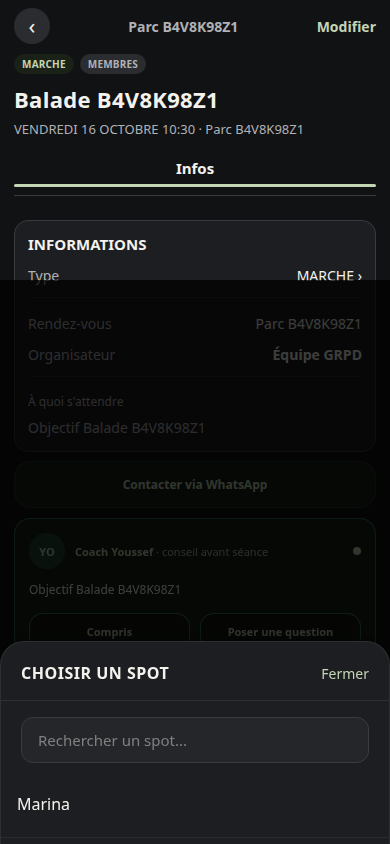
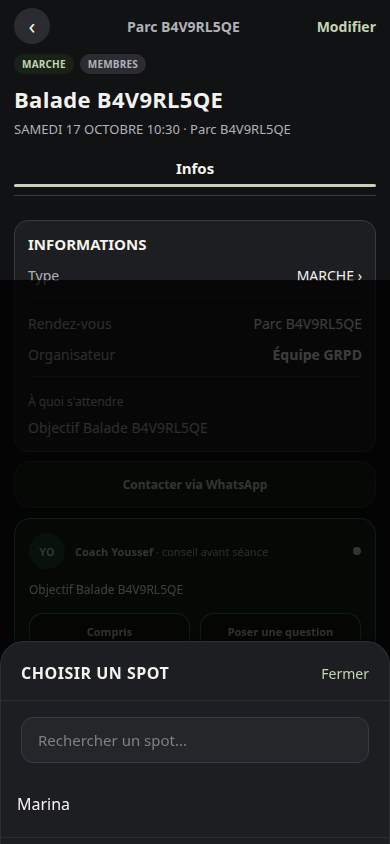
Batch4 evidence: Codex correction — real admin move of B at 3dff8ed
Re-ran Batch4 checks: B moved D→B (source −1 / dest +1); separate
same-group idempotency; B TOI after login; host/club B unchanged;
no outing autojoin. Nested SKIP this correction. STOP for Codex.

diff --git a/docs/audit/batch4-toi-roster/EVIDENCE.md b/docs/audit/batch4-toi-roster/EVIDENCE.md
@@ -1,52 +1,62 @@
-# Batch 4 evidence — ISSUE-011 TOI / roster
+# Batch 4 evidence — ISSUE-011 TOI / roster (Codex correction)
 
-- **tested_sha:** `de5402a3757063a18b0895fcc41686e1f89d8ad0`
+- **tested_sha:** `3dff8ed2f2af5075fd3fd71660a2dd307d9c2851`
 - **branch:** `cursor/green-home-ux-join-3184`
-- **environment:** `demo` · hosted_claim: false
-- **summary:** {"passed":32,"failed":0,"blocked":0,"total":32}
-- **generated_at:** 2026-10-14T20:37:01.696Z
+- **environment:** `demo` · hosted_claim: False
+- **summary:** {"passed": 37, "failed": 0, "blocked": 3, "total": 40}
+- **generated_at:** 2026-10-15T16:43:05.254Z
+- **correction:** e383d2a review — require real admin move of B to different group
+- **nested:** SKIPPED this correction (relevant Batch4 checks only); prior nested PASS retained under regressions/ from de5402a run
 
 ## Checks
-- PASS `host_login` — user_1792009620683_cz27f9ub
-- PASS `club_a_created` — club_1792009623136_ty9h9hqs
+- PASS `host_login` — user_1792082400155_kohostak
+- PASS `club_a_created` — club_1792082402612_7kf2asec
 - PASS `club_a_home_screen` — Clubs
 Membre confirmé · Fondé 2026
 EOB
-English Outside B4V8K98Z1
+English Outside B4V9RL5QE
 Casablanca · Club sur invitation · 1 membre
 TU ES MEMBRE
-Pratiquer l'anglais en marchant — niveaux mixtes B4V8K98Z1.
+Pratiquer l'anglais en marchant — niveaux mixtes B4V9RL5QE.
 Les sorties du club
 Chaque sortie a sa
-- PASS `same_user_exactly_one_toi` — [{"gid":"A","visible":true,"hasToi":true,"countText":"1 membre","count":1}]
-- PASS `toi_group_count_gte_1` — {"gid":"A","visible":true,"hasToi":true,"countText":"1 membre","count":1}
-- PASS `exact_roster_sum_equals_member_total_solo` — {"sumCounts":1,"pace":[{"gid":"A","visible":true,"hasToi":true,"countText":"1 membre","count":1},{"gid":"B","visible":true,"hasToi":false,"countText":"0 membres","count":0},{"gid":"C","visible":true,"hasToi":false,"countText":"0 membres","count":0},{"gid":"D","visible":true,"hasToi":false,"countText":"0 membres","count":0}]}
-- PASS `empty_groups_show_zero` — ["B","C","D"]
-- PASS `admin_empty_group_state` — group=B
-- PASS `walk_outing_created_pace_optional` — {"id":"session_1792009652329_zvfyh4bk","paceUiForced":{"hasPacePicker":false,"required":false}}
-- PASS `admin_assign_persisted_storage` — {"user_1792009620683_cz27f9ub":"B"}
+- PASS `same_user_exactly_one_toi` — [{"gid":"B","visible":true,"hasToi":true,"countText":"1 membre","count":1}]
+- PASS `toi_group_count_gte_1` — {"gid":"B","visible":true,"hasToi":true,"countText":"1 membre","count":1}
+- PASS `exact_roster_sum_equals_member_total_solo` — {"sumCounts":1,"pace":[{"gid":"A","visible":true,"hasToi":false,"countText":"0 membres","count":0},{"gid":"B","visible":true,"hasToi":true,"countText":"1 membre","count":1},{"gid":"C","visible":true,"hasToi":false,"countText":"0 membres","count":0},{"gid":"D","visible":true,"hasToi":false,"countText":"0 membres","count":0}]}
+- PASS `empty_groups_show_zero` — ["A","C","D"]
+- PASS `admin_empty_group_state` — group=A
+- PASS `walk_outing_created_pace_optional` — {"id":"session_1792082431790_f9349fht","paceUiForced":{"hasPacePicker":false,"required":false}}
+- PASS `admin_assign_persisted_storage` — {"user_1792082400155_kohostak":"A"}
 - PASS `home_group_assign_does_not_autojoin_outing` — {"hostJoinedBefore":false,"hostJoinedAfter":false,"onlyNewJoins":[],"attendanceBeforeCount":0,"attendanceAfterCount":0}
-- PASS `move_toi_follows_target` — [{"gid":"B","visible":true,"hasToi":true,"countText":"1 membre","count":1}]
-- PASS `move_decrement_source_increment_target` — {"fromAfter":{"gid":"A","visible":true,"hasToi":false,"countText":"0 membres","count":0},"toAfter":{"gid":"B","visible":true,"hasToi":true,"countText":"1 membre","count":1}}
-- PASS `move_no_duplicate_count` — {"sumAfter":1,"pace":[{"gid":"A","visible":true,"hasToi":false,"countText":"0 membres","count":0},{"gid":"B","visible":true,"hasToi":true,"countText":"1 membre","count":1},{"gid":"C","visible":true,"hasToi":false,"countText":"0 membres","count":0},{"gid":"D","visible":true,"hasToi":false,"countText":"0 membres","count":0}]}
-- PASS `reload_toi_and_counts_persist` — [{"gid":"A","visible":true,"hasToi":false,"countText":"0 membres","count":0},{"gid":"B","visible":true,"hasToi":true,"countText":"1 membre","count":1},{"gid":"C","visible":true,"hasToi":false,"countText":"0 membres","count":0},{"gid":"D","visible":true,"hasToi":false,"countText":"0 membres","count":0}]
-- PASS `club_b_created` — club_1792009701229_7gygdvdy
-- PASS `club_b_exactly_one_toi` — [{"gid":"A","visible":true,"hasToi":true,"countText":"1 membre","count":1}]
-- PASS `switch_back_club_a_keeps_assignment` — [{"gid":"B","visible":true,"hasToi":true,"countText":"1 membre","count":1}]
-- PASS `switch_club_b_independent` — {"toiBSwitch":[{"gid":"A","visible":true,"hasToi":true,"countText":"1 membre","count":1}],"groupsA":"B"}
-- PASS `invite_code_for_member_b` — ENGLILZO
-- PASS `member_b_login` — user_1792009720197_z39d5khx
-- PASS `second_identity_exactly_one_toi` — [{"gid":"B","visible":true,"hasToi":true,"countText":"2 membres","count":2}]
-- PASS `second_identity_roster_sum_is_two` — {"sumMember":2,"paceMember":[{"gid":"A","visible":true,"hasToi":false,"countText":"0 membres","count":0},{"gid":"B","visible":true,"hasToi":true,"countText":"2 membres","count":2},{"gid":"C","visible":true,"hasToi":false,"countText":"0 membres","count":0},{"gid":"D","visible":true,"hasToi":false,"countText":"0 membres","count":0}]}
-- PASS `second_identity_host_group_still_counted` — {"targetGid":"B","hostGroupCount":2,"paceMember":[{"gid":"A","visible":true,"hasToi":false,"countText":"0 membres","count":0},{"gid":"B","visible":true,"hasToi":true,"countText":"2 membres","count":2},{"gid":"C","visible":true,"hasToi":false,"countText":"0 membres","count":0},{"gid":"D","visible":true,"hasToi":false,"countText":"0 membres","count":0}]}
+- PASS `move_toi_follows_target` — [{"gid":"A","visible":true,"hasToi":true,"countText":"1 membre","count":1}]
+- PASS `move_decrement_source_increment_target` — {"fromAfter":{"gid":"B","visible":true,"hasToi":false,"countText":"0 membres","count":0},"toAfter":{"gid":"A","visible":true,"hasToi":true,"countText":"1 membre","count":1}}
+- PASS `move_no_duplicate_count` — {"sumAfter":1,"pace":[{"gid":"A","visible":true,"hasToi":true,"countText":"1 membre","count":1},{"gid":"B","visible":true,"hasToi":false,"countText":"0 membres","count":0},{"gid":"C","visible":true,"hasToi":false,"countText":"0 membres","count":0},{"gid":"D","visible":true,"hasToi":false,"countText":"0 membres","count":0}]}
+- PASS `reload_toi_and_counts_persist` — [{"gid":"A","visible":true,"hasToi":true,"countText":"1 membre","count":1},{"gid":"B","visible":true,"hasToi":false,"countText":"0 membres","count":0},{"gid":"C","visible":true,"hasToi":false,"countText":"0 membres","count":0},{"gid":"D","visible":true,"hasToi":false,"countText":"0 membres","count":0}]
+- PASS `club_b_created` — club_1792082480673_d9el6oev
+- PASS `club_b_exactly_one_toi` — [{"gid":"B","visible":true,"hasToi":true,"countText":"1 membre","count":1}]
+- PASS `switch_back_club_a_keeps_assignment` — [{"gid":"A","visible":true,"hasToi":true,"countText":"1 membre","count":1}]
+- PASS `switch_club_b_independent` — {"toiBSwitch":[{"gid":"B","visible":true,"hasToi":true,"countText":"1 membre","count":1}],"groupsA":"A"}
+- PASS `invite_code_for_member_b` — ENGLI99E
+- PASS `member_b_login` — user_1792082499533_1ojsdjl7
+- PASS `second_identity_exactly_one_toi` — [{"gid":"D","visible":true,"hasToi":true,"countText":"1 membre","count":1}]
+- PASS `second_identity_roster_sum_is_two` — {"sumMember":2,"paceMember":[{"gid":"A","visible":true,"hasToi":false,"countText":"1 membre","count":1},{"gid":"B","visible":true,"hasToi":false,"countText":"0 membres","count":0},{"gid":"C","visible":true,"hasToi":false,"countText":"0 membres","count":0},{"gid":"D","visible":true,"hasToi":true,"countText":"1 membre","count":1}]}
+- PASS `second_identity_host_group_still_counted` — {"targetGid":"A","hostGroupCount":1,"paceMember":[{"gid":"A","visible":true,"hasToi":false,"countText":"1 membre","count":1},{"gid":"B","visible":true,"hasToi":false,"countText":"0 membres","count":0},{"gid":"C","visible":true,"hasToi":false,"countText":"0 membres","count":0},{"gid":"D","visible":true,"hasToi":true,"countText":"1 membre","count":1}]}
 - PASS `non_admin_cannot_assign_self` — changeVisible=false
-- PASS `host_relogin_toi_and_sum` — {"toiHostFinal":[{"gid":"B","visible":true,"hasToi":true,"countText":"2 membres","count":2}],"sumFinal":2,"pace":[{"gid":"A","visible":true,"hasToi":false,"countText":"0 membres","count":0},{"gid":"B","visible":true,"hasToi":true,"countText":"2 membres","count":2},{"gid":"C","visible":true,"hasToi":false,"countText":"0 membres","count":0},{"gid":"D","visible":true,"hasToi":false,"countText":"0 membres","count":0}]}
-- PASS `admin_move_member_b_counts` — member B already hashed into host target; sum still 2
-- PASS `club_b_unaffected_by_club_a_roster` — {"sumB":1,"paceB":[{"gid":"A","visible":true,"hasToi":true,"countText":"1 membre","count":1},{"gid":"B","visible":true,"hasToi":false,"countText":"0 membres","count":0},{"gid":"C","visible":true,"hasToi":false,"countText":"0 membres","count":0},{"gid":"D","visible":true,"hasToi":false,"countText":"0 membres","count":0}]}
+- PASS `host_relogin_toi_and_sum` — {"toiHostFinal":[{"gid":"A","visible":true,"hasToi":true,"countText":"1 membre","count":1}],"sumFinal":2,"pace":[{"gid":"A","visible":true,"hasToi":true,"countText":"1 membre","count":1},{"gid":"B","visible":true,"hasToi":false,"countText":"0 membres","count":0},{"gid":"C","visible":true,"hasToi":false,"countText":"0 membres","count":0},{"gid":"D","visible":true,"hasToi":false,"countText":"1 membre","count":1}]}
+- PASS `admin_move_member_b_setup_different_group` — {"bSourceGid":"D","bDestGid":"B","sourceBefore":1,"destBefore":0,"sumBeforeMove":2,"sameAsHostTarget":false}
+- PASS `admin_move_member_b_persisted` — {"user_1792082400155_kohostak":"A","user_1792082499533_1ojsdjl7":"B"}
+- PASS `admin_move_member_b_counts` — {"bSourceGid":"D","bDestGid":"B","sourceBefore":1,"sourceAfter":0,"destBefore":0,"destAfter":1,"sumBeforeMove":2,"sumAfterMove":2,"pace":[{"gid":"A","visible":true,"hasToi":true,"countText":"1 membre","count":1},{"gid":"B","visible":true,"hasToi":false,"countText":"1 membre","count":1},{"gid":"C","visible":true,"hasToi":false,"countText":"0 membres","count":0},{"gid":"D","visible":true,"hasToi":false,"countText":"0 membres","count":0}]}
+- PASS `admin_move_host_toi_unchanged` — {"toiHostAfterBMove":[{"gid":"A","visible":true,"hasToi":true,"countText":"1 membre","count":1}],"hostTarget":"A"}
+- PASS `admin_move_member_b_no_outing_autojoin` — {"hostJoinedBeforeBMove":false,"hostJoinedAfterBMove":false,"attendanceBeforeCount":0,"attendanceAfterCount":0}
+- PASS `admin_assign_same_group_idempotent` — {"before":[{"gid":"A","visible":true,"hasToi":true,"countText":"1 membre","count":1},{"gid":"B","visible":true,"hasToi":false,"countText":"1 membre","count":1},{"gid":"C","visible":true,"hasToi":false,"countText":"0 membres","count":0},{"gid":"D","visible":true,"hasToi":false,"countText":"0 membres","count":0}],"after":[{"gid":"A","visible":true,"hasToi":true,"countText":"1 membre","count":1},{"gid":"B","visible":true,"hasToi":false,"countText":"1 membre","count":1},{"gid":"C","visible":true,"hasToi":false,"countText":"0 membres","count":0},{"gid":"D","visible":true,"hasToi":false,"countText":"0 membres","count":0}],"memberGroup":"B"}
+- PASS `member_b_toi_after_admin_move` — {"toiBAfterMove":[{"gid":"B","visible":true,"hasToi":true,"countText":"1 membre","count":1}],"bDestGid":"B","paceMember":[{"gid":"A","visible":true,"hasToi":false,"countText":"1 membre","count":1},{"gid":"B","visible":true,"hasToi":true,"countText":"1 membre","count":1},{"gid":"C","visible":true,"hasToi":false,"countText":"0 membres","count":0},{"gid":"D","visible":true,"hasToi":false,"countText":"0 membres","count":0}]}
+- PASS `member_b_no_outing_autojoin_from_home_group` — {"bAutoJoined":false,"joined":[]}
+- PASS `host_after_b_move_club_a_sum` — [{"gid":"A","visible":true,"hasToi":true,"countText":"1 membre","count":1},{"gid":"B","visible":true,"hasToi":false,"countText":"1 membre","count":1},{"gid":"C","visible":true,"hasToi":false,"countText":"0 membres","count":0},{"gid":"D","visible":true,"hasToi":false,"countText":"0 membres","count":0}]
+- PASS `club_b_unaffected_by_club_a_roster` — {"sumB":1,"paceB":[{"gid":"A","visible":true,"hasToi":false,"countText":"0 membres","count":0},{"gid":"B","visible":true,"hasToi":true,"countText":"1 membre","count":1},{"gid":"C","visible":true,"hasToi":false,"countText":"0 membres","count":0},{"gid":"D","visible":true,"hasToi":false,"countText":"0 membres","count":0}]}
 - PASS `parse_count_helper_smoke` — ok
-- PASS `regression_batch1_privacy` — {"passed":31,"failed":0,"total":31}
-- PASS `regression_batch2_walk_join` — {"passed":42,"failed":0,"blocked":0,"total":42}
-- PASS `regression_batch3_club_idea` — {"passed":56,"failed":0,"blocked":2,"total":58}
+- BLOCKED `regression_batch1_privacy` — SKIPPED via SKIP_NESTED_REGRESSION=1
+- BLOCKED `regression_batch2_walk_join` — SKIPPED via SKIP_NESTED_REGRESSION=1
+- BLOCKED `regression_batch3_club_idea` — SKIPPED via SKIP_NESTED_REGRESSION=1
 
 ## Current screenshots
 - `docs/audit/batch4-toi-roster/screenshots/01-club-a-home-initial.png`
@@ -62,5 +72,8 @@ Chaque sortie a sa
 - `docs/audit/batch4-toi-roster/screenshots/11-member-b-club-a.png`
 - `docs/audit/batch4-toi-roster/screenshots/12-member-b-group-detail-no-assign.png`
 - `docs/audit/batch4-toi-roster/screenshots/13-host-relogin-two-members.png`
-- `docs/audit/batch4-toi-roster/screenshots/14-member-b-already-same-group.png`
+- `docs/audit/batch4-toi-roster/screenshots/14-after-admin-move-member-b.png`
+- `docs/audit/batch4-toi-roster/screenshots/14b-same-group-idempotent.png`
+- `docs/audit/batch4-toi-roster/screenshots/14c-member-b-toi-after-move.png`
 - `docs/audit/batch4-toi-roster/screenshots/15-club-b-still-solo.png`
+

diff --git a/docs/PROJECT_CHECKPOINT.md b/docs/PROJECT_CHECKPOINT.md
@@ -1,23 +1,22 @@
 # GRPD Project Checkpoint
 
-**Updated:** 2026-10-14  
+**Updated:** 2026-10-15  
 **Working branch:** `cursor/green-home-ux-join-3184` (PR #6)  
 **Pinned product baseline (pre–Batch 1):** `c46ce86478e26e0e523fd1fd227adaf3a792b6e4`  
 **Batch 1 tip (DEMO gate CLEARED):** `959b1ac18db002ef90fc430c1662f750e4796acf`  
 **Batch 2 tip (DEMO gate CLEARED):** `6d36691234ec4d8fbdddd4ff92ba818e02b1d957`  
 **Batch 3 tip (DEMO gate CLEARED functional):** `75356094d741c63cbfbfca2fa7301042784a2fbf`  
-**Batch 4 `tested_sha`:** `de5402a3757063a18b0895fcc41686e1f89d8ad0`  
-**Batch 4 docs tip:** `16a2020704c8fc9f33ecdbae459ffbb9eefedf77`  
-**Batch 4 evidence:** `docs/audit/batch4-toi-roster/evidence.json` — **32 PASS / 0 FAIL / 0 BLOCKED** · `hosted_claim: false`  
-**Batch 4 nested regressions:** Batch1 31/31 · Batch2 42/42 · Batch3 56 PASS / 0 FAIL / 2 BLOCKED (SKIP nested inside B3)  
+**Batch 4 `tested_sha` (Codex correction):** `3dff8ed2f2af5075fd3fd71660a2dd307d9c2851`  
+**Batch 4 evidence:** `docs/audit/batch4-toi-roster/evidence.json` — **37 PASS / 0 FAIL / 3 BLOCKED** (nested SKIP this correction) · `hosted_claim: false`  
+**Prior nested regressions (de5402a):** B1 31/31 · B2 42/42 · B3 56/0 FAIL — copies under `docs/audit/batch4-toi-roster/regressions/`  
 **Method:** Adopted — see `docs/PROJECT_METHOD.md`
 
 ## Current phase
 
-**BATCH 4 COMPLETE — STOP for Codex review.**  
-Batch 3 functional DEMO gate CLEARED earlier this turn.  
-Batch 4 ISSUE-011 demo evidence executed at `de5402a` — no product defects demonstrated; no product code fix required beyond harness/testIDs.  
-No merge / production / credentials / spending / OCIF / broad redesign.
+**BATCH 4 CORRECTION COMPLETE — STOP for Codex re-review.**  
+Codex finding on `e383d2a`: `admin_move_member_b_counts` must not PASS when B is already same-group.  
+Corrected harness **actually moves B** to a different group via admin UI; asserts source −1 / target +1; separate same-group idempotency; B TOI after login; host TOI + club B unchanged; no outing autojoin.  
+Evidence at `3dff8ed`. No merge / production / credentials / spending / OCIF / next batch.
 
 ## Preview (Nouamane)
 
@@ -27,15 +26,15 @@ No merge / production / credentials / spending / OCIF / broad redesign.
 
 ## Exact next action
 
-1. **Codex** reviews Batch 4 ISSUE-011 evidence at `de5402a` + nested regressions.  
-2. After clear: propose next bounded batch from remaining register gaps (004 hosted leave, 008, 012 keyboard note, etc.).  
+1. **Codex** re-reviews Batch 4 corrected evidence at `3dff8ed` (esp. `admin_move_member_b_counts` + B TOI + idempotency).  
+2. After clear: propose next bounded batch from remaining gaps.  
 3. No merge / prod / spending / credentials / OCIF.
 
 ## Surfaces
 
 | Surface | Status |
 |---------|--------|
-| Demo | Batch1–3 CLEARED (functional); Batch4 evidence ready for Codex; ISSUE-012 keyboard OPEN |
+| Demo | Batch1–3 CLEARED (functional); Batch4 corrected evidence ready for Codex; ISSUE-012 keyboard OPEN |
 | Hosted | Not claimed (SSO preview protection only; ISSUE-004/008 open) |
 | Native | Not verified |
 | UAT | Not run |

diff --git a/docs/audit/batch4-toi-roster/CURRENT_RUN.md b/docs/audit/batch4-toi-roster/CURRENT_RUN.md
@@ -1,25 +1,17 @@
-# Batch 4 current evidence run
+# Batch 4 current evidence run (Codex correction)
 
-- **tested_sha:** `de5402a3757063a18b0895fcc41686e1f89d8ad0`
+- **tested_sha:** `3dff8ed2f2af5075fd3fd71660a2dd307d9c2851`
 - **environment:** demo · **hosted_claim:** false
-- **summary:** {'passed': 32, 'failed': 0, 'blocked': 0, 'total': 32}
+- **summary:** {"passed": 37, "failed": 0, "blocked": 3, "total": 40}
+- **Codex correction:** real admin move of member B to a different group (source −1 / target +1); same-group idempotency separate; B TOI after login; host/other club unchanged; no outing autojoin
+- **Nested regressions:** SKIPPED this correction — prior copies under `regressions/` from `de5402a`
 - **Authoritative manifest:** `evidence.json` → `screenshots` list
-- **Nested regressions:** B1 31/31 · B2 42/42 · B3 56 PASS / 0 FAIL / 2 BLOCKED (SKIP nested inside B3)
-- **Product defects fixed this batch:** none demonstrated
 
-## Current screenshots (15)
-- `docs/audit/batch4-toi-roster/screenshots/01-club-a-home-initial.png`
-- `docs/audit/batch4-toi-roster/screenshots/02-admin-empty-group.png`
-- `docs/audit/batch4-toi-roster/screenshots/03-walk-outing-detail.png`
-- `docs/audit/batch4-toi-roster/screenshots/04-after-assign-modal.png`
-- `docs/audit/batch4-toi-roster/screenshots/05-club-a-after-move.png`
-- `docs/audit/batch4-toi-roster/screenshots/06-club-a-after-reload.png`
-- `docs/audit/batch4-toi-roster/screenshots/07-club-b-home.png`
-- `docs/audit/batch4-toi-roster/screenshots/08-switch-club-a.png`
-- `docs/audit/batch4-toi-roster/screenshots/09-switch-club-b.png`
-- `docs/audit/batch4-toi-roster/screenshots/10-invite-code.png`
-- `docs/audit/batch4-toi-roster/screenshots/11-member-b-club-a.png`
-- `docs/audit/batch4-toi-roster/screenshots/12-member-b-group-detail-no-assign.png`
-- `docs/audit/batch4-toi-roster/screenshots/13-host-relogin-two-members.png`
-- `docs/audit/batch4-toi-roster/screenshots/14-member-b-already-same-group.png`
-- `docs/audit/batch4-toi-roster/screenshots/15-club-b-still-solo.png`
+## Key corrected checks
+- `admin_move_member_b_setup_different_group`
+- `admin_move_member_b_counts` (exact −1 / +1)
+- `admin_assign_same_group_idempotent` (separate)
+- `member_b_toi_after_admin_move`
+- `admin_move_host_toi_unchanged` / `club_b_unaffected_by_club_a_roster`
+- `admin_move_member_b_no_outing_autojoin` / `member_b_no_outing_autojoin_from_home_group`
+

diff --git a/docs/product/ISSUE_REGISTER.md b/docs/product/ISSUE_REGISTER.md
@@ -11,8 +11,8 @@
 **Batch 3 evidence:** `docs/audit/batch3-club-idea/evidence.json` (57 PASS / 0 FAIL / 1 BLOCKED keyboard harness note)  
 **Batch 3 nested regressions:** privacy 31/31 + walk/join 42/42 under `docs/audit/batch3-club-idea/regressions/`  
 **Tab focus closeout:** `docs/audit/batch3-club-idea/tab-focus/` — real Tab traversal; classified **harness_limitation** (not product defect); keyboard **OPEN** (ISSUE-012), not full a11y acceptance  
-**Batch 4 tip under test / `tested_sha`:** `de5402a3757063a18b0895fcc41686e1f89d8ad0`  
-**Batch 4 evidence:** `docs/audit/batch4-toi-roster/evidence.json` — **32 PASS / 0 FAIL** · nested B1 31/31 · B2 42/42 · B3 56/0 FAIL  
+**Batch 4 tip under test / `tested_sha`:** `3dff8ed2f2af5075fd3fd71660a2dd307d9c2851`  
+**Batch 4 evidence:** `docs/audit/batch4-toi-roster/evidence.json` — **37 PASS / 0 FAIL / 3 BLOCKED** (nested SKIP this Codex correction) · prior nested at `de5402a` retained under `regressions/`  
 **Method:** Statuses are NOT CHECKED / FAILED / FIXED AWAITING RETEST / VERIFIED / BLOCKED.  
 **Capability:** IMPLEMENTED / PARTIAL / NOT IMPLEMENTED / UNSUPPORTED — never treat NOT IMPLEMENTED as PASS.
 
